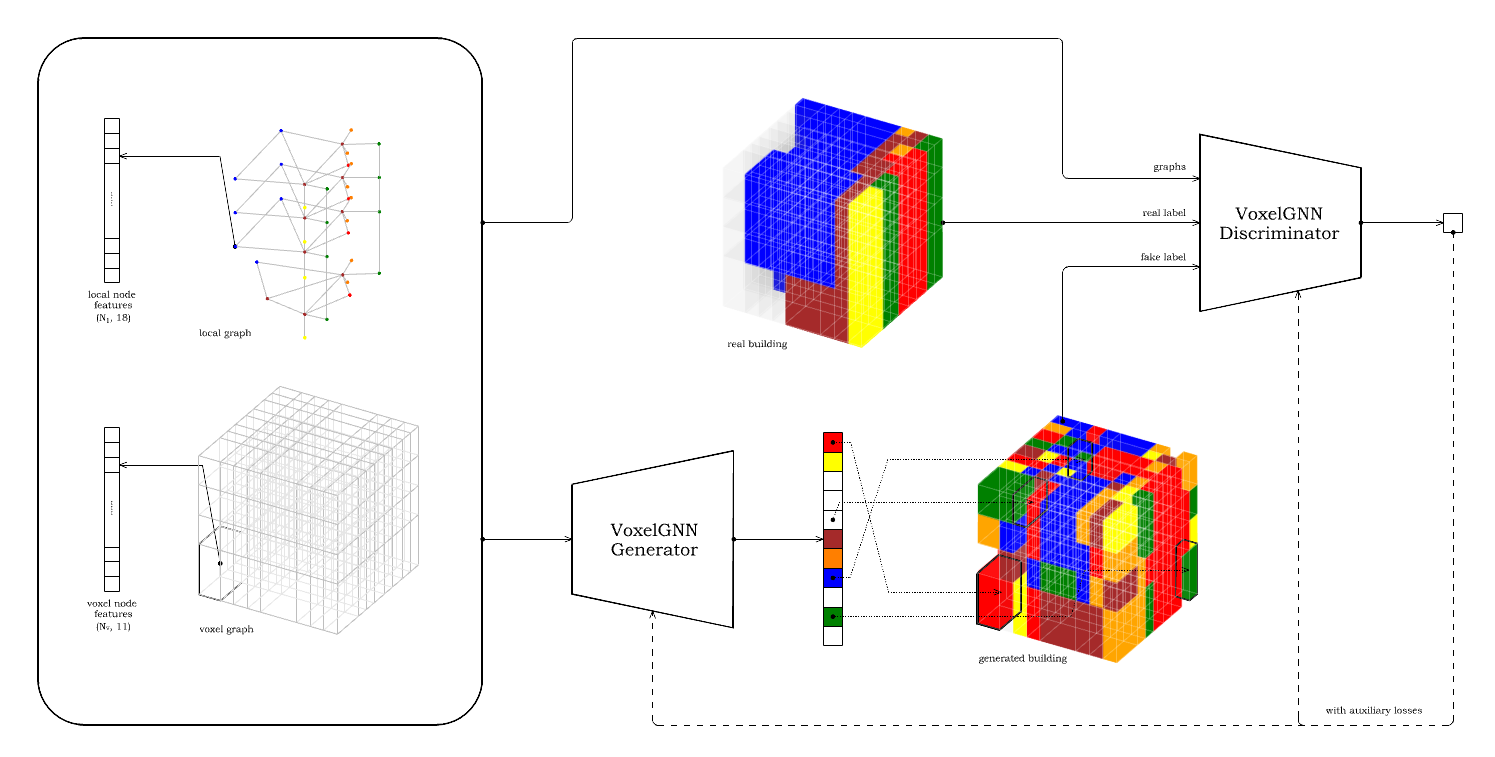
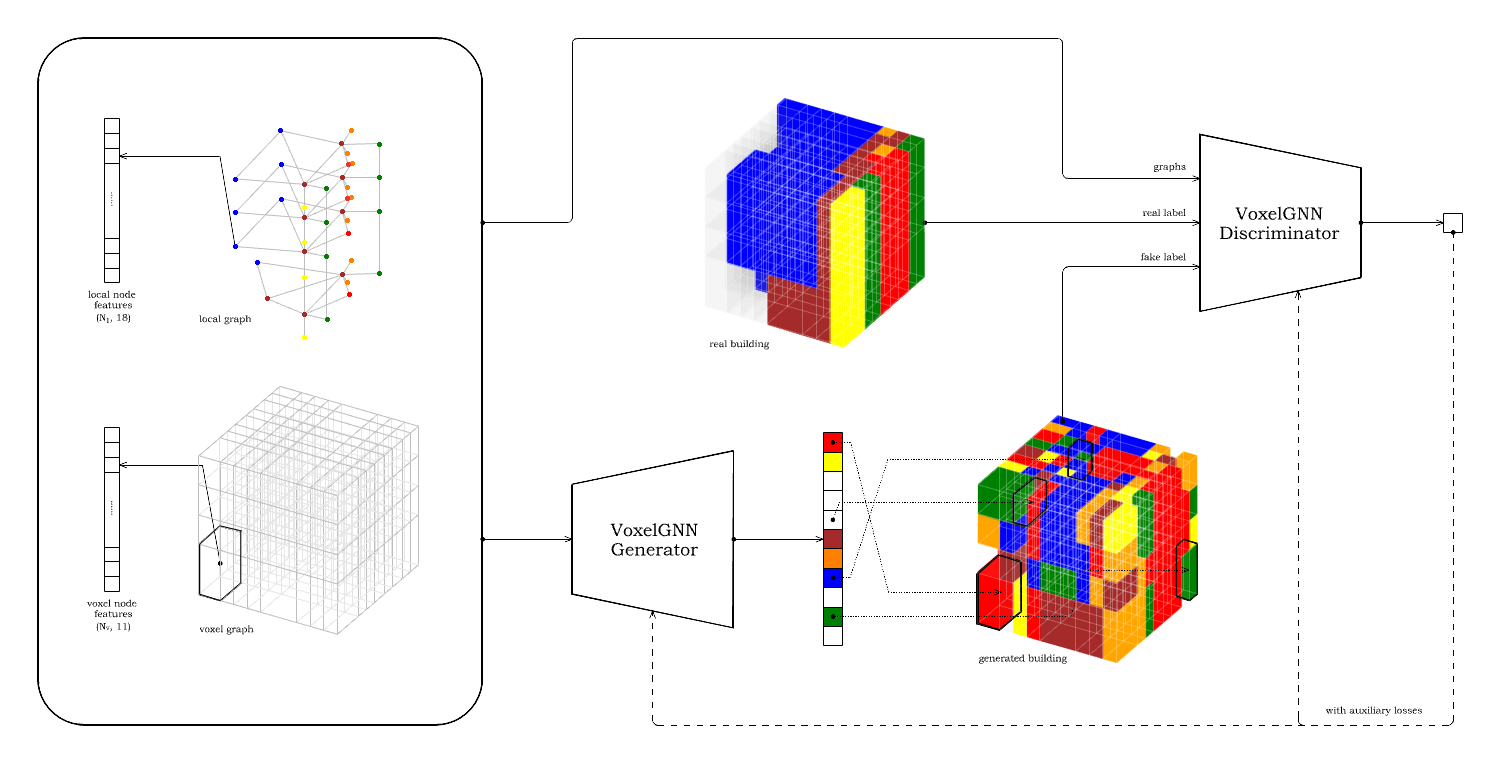
Voxels to Graph

Changed region(s): [[0.4615, 0.1215, 0.6462, 0.4557], [0.1231, 0.4254, 0.1538, 0.4557]]

diff --git a/testbed/_posts/2025-04-02-voxels-to-graph.html b/testbed/_posts/2025-04-02-voxels-to-graph.html
@@ -308,7 +308,13 @@ thumbnail: /img/voxels-to-graph/voxels-to-graph-thumbnail.gif
 <div class="article">
 
     The GNN model can be broadly divided into link prediction and node classification tasks.
-    In the paper, the model generates voxels given a local graph and a voxel graph, so the task corresponds to node prediction.
+    In the paper, the model generates voxels given a local graph and a voxel graph, so the task corresponds to <strong>node prediction</strong>.
+    The diagram below provides a brief illustration of the training process. The process follows a GAN architecture, in which both the generator and discriminator are based on Graph Neural Networks.
+
+    <br><br>
+
+    VoxelGNNGenerator and VoxelGNNDiscriminator both use the local graph and the voxel graph as inputs. 
+    Additionally, the generator takes noise <code>z</code> as an input, while the discriminator takes the labels generated by VoxelGNNGenerator as an additional input.
     
     <!-- 
         학습 구조는 아래 다이어그램으로 간단히 나타낼 수 있습니다. 기본적으로 gan 구조를 따르며, generator와 discriminator는 GNN이 기반입니다.
@@ -317,10 +323,27 @@ thumbnail: /img/voxels-to-graph/voxels-to-graph-thumbnail.gif
     -->
 
     
+    <!-- 
+
+        모델은 generator와 discriminator로 구성됩니다. 공통적으로 local graph와 voxel graph를 입력으로 사용하고, 
+        추가적으로 generator는 noise z를 discriminator는 generator가 만들어낸 voxel graph의 node class를 입력으로 받습니다. 
+        
+
+
+        voxel-wise node class prediction
+        matched_x, voxel-wise z concat (복셀 컨디션이 같더라도 다른 주어진 조건들에 의해서 결과가 달라져야할 수 있으므로 noise를 통해 표현력을 높이려는 의도같음)
+        gumbel softmax
+        sanity checking
+
+
+
+    -->
+
+    
     <figure>
         <img src="/img/voxels-to-graph/voxels-to-graph-2.png" width="100%" onerror=handle_image_error(this)>
         <figcaption>
-          Generated Buildings
+          Training Process
         </figcaption>
     </figure>
 
@@ -364,21 +387,6 @@ thumbnail: /img/voxels-to-graph/voxels-to-graph-thumbnail.gif
 
             return logits, label_hard, label_soft
 </code></pre>
-    <!-- 
-
-        모델은 generator와 discriminator로 구성됩니다. 공통적으로 local graph와 voxel graph를 입력으로 사용하고, 
-        추가적으로 generator는 noise z를 discriminator는 generator가 만들어낸 voxel graph의 node class를 입력으로 받습니다. 
-        
-
-
-        voxel-wise node class prediction
-        matched_x, voxel-wise z concat (복셀 컨디션이 같더라도 다른 주어진 조건들에 의해서 결과가 달라져야할 수 있으므로 noise를 통해 표현력을 높이려는 의도같음)
-        gumbel softmax
-        sanity checking
-
-
-
-    -->
 </div><br><br>
 
 <h3>Training</h3>
